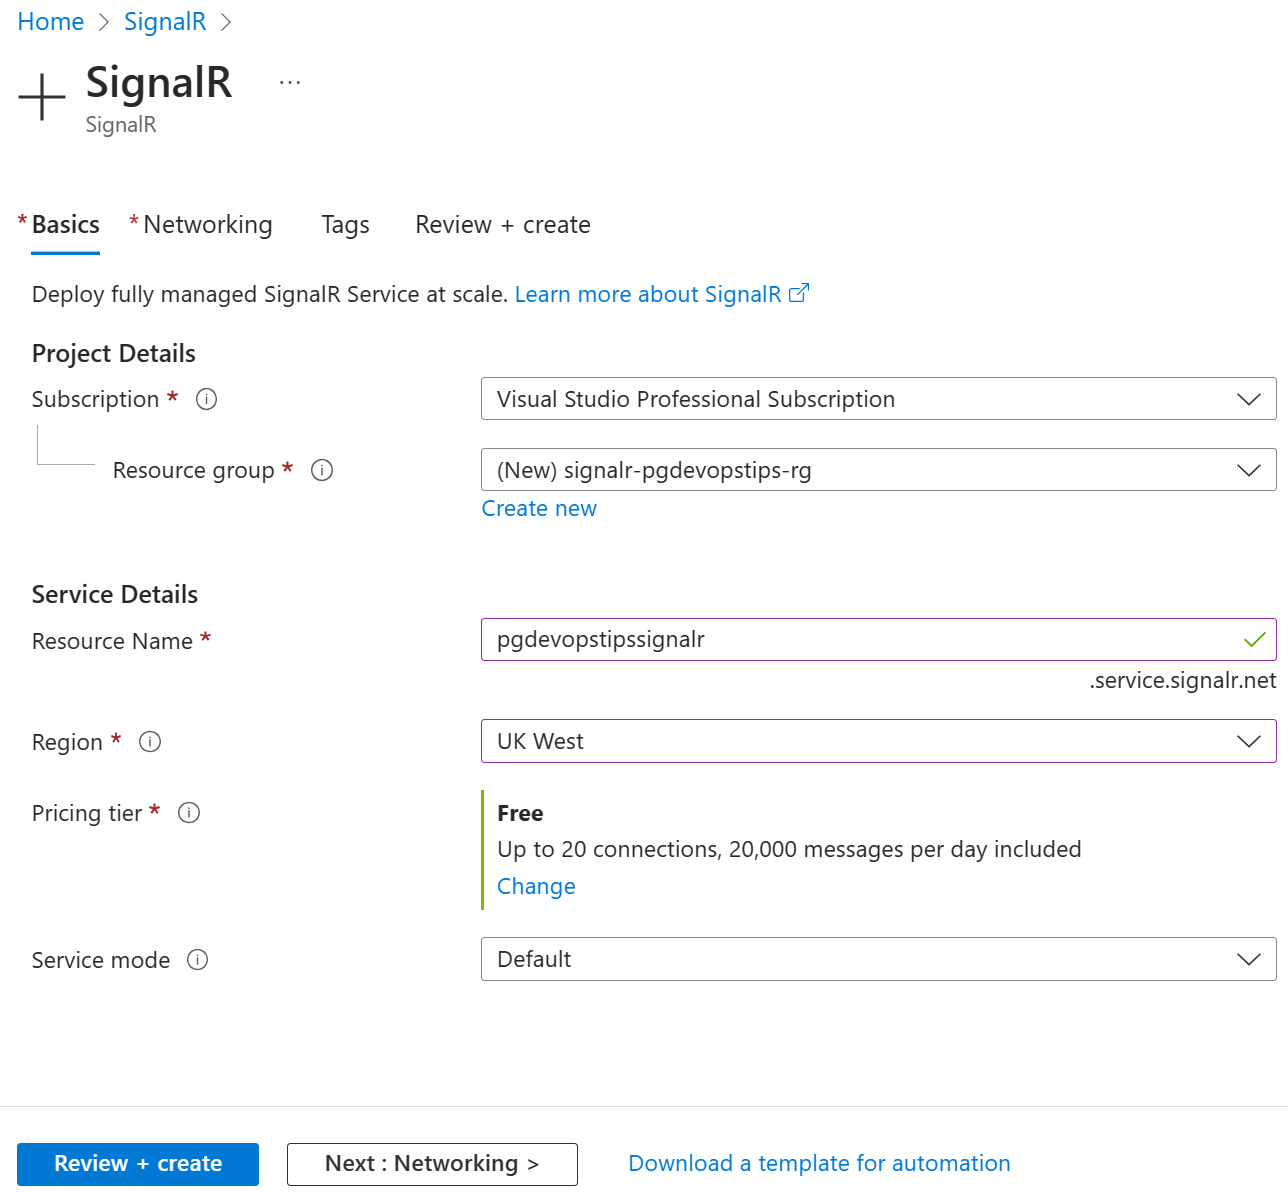
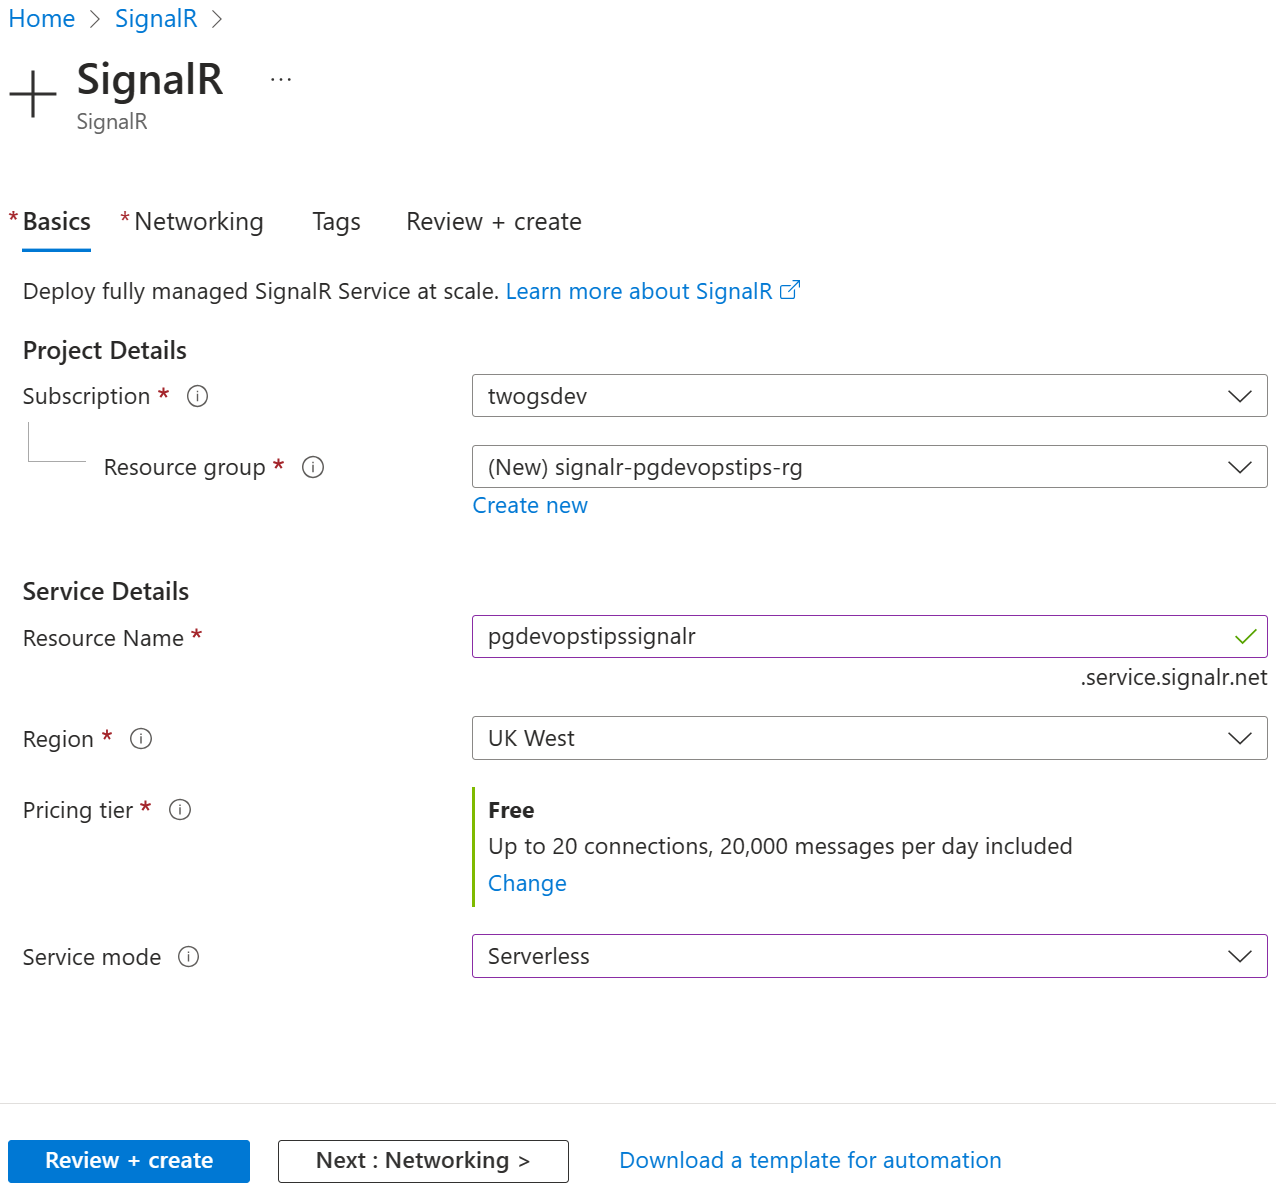
Update grammar and image

diff --git a/Blog/Articles/Sending IoT data real-time from the Azure Plug and Play Mobile App to a Blazor WebAssembly App with Azure IoT Hub Azure Functions and SignalR Service.md b/Blog/Articles/Sending IoT data real-time from the Azure Plug and Play Mobile App to a Blazor WebAssembly App with Azure IoT Hub Azure Functions and SignalR Service.md
@@ -1,6 +1,6 @@
 ---
-title: Sending IoT data real-time from the Azure Plug and Play Mobile App to a Blazor WebAssembly App with Azure IoT Hub Azure Functions and SignalR Service
-description: Sending IoT data real-time from the Azure Plug and Play Mobile App to a Blazor WebAssembly App with Azure IoT Hub Azure Functions and SignalR Service
+title: Sending IoT data real-time from the Azure Plug and Play Mobile App to a Blazor WebAssembly App with Azure IoT Hub Azure Functions and a SignalR Service
+description: Sending IoT data real-time from the Azure Plug and Play Mobile App to a Blazor WebAssembly App with Azure IoT Hub Azure Functions and a SignalR Service
 image: https://dummyimage.com/800x600/000/fff&text=placeholder
 thumbnail: https://dummyimage.com/200x200/000/fff&text=placeholder
 type: article
@@ -12,10 +12,11 @@ categories:
   - Azure Functions
   - Azurite
   - Azure SignalR Service
-  - Blazor WebAssembly
+  - Blazor WebAssembly App
+  - Visual Studio
 ---
 
-# Sending IoT data real-time from the Azure Plug and Play Mobile App to a Blazor WebAssembly App with Azure IoT Hub, Azure Functions and SignalR Service
+# Sending IoT data real-time from the Azure Plug and Play Mobile App to a Blazor WebAssembly App with Azure IoT Hub, Azure Functions and a SignalR Service
 
 In this article, you will learn how to build a solution to send IoT data real-time from the Azure Plug and Play Mobile App to a Blazor WebAssembly App with Azure IoT Hub, Azure Functions and a SignalR Service.
 
@@ -61,9 +62,9 @@ The following prerequisites will be required to complete this tutorial:
     ![Visual Studio Additional Information New Azure Functions Project](https://raw.githubusercontent.com/petergregg/Content/main/Blog/Images/VisualStudio/VisualStudioConfigureAzureFunctionsProjectAdditionalInformation.png)
 
 
-# Create Azure IoT Hub and configure in the Azure Functions Project
+# Create an Azure IoT Hub and Connect it to the Azure Functions Project
 
-## Create Azure IoT Hub
+## Create an Azure IoT Hub
 
 1. Navigate to the [Azure Portal](https://portal.azure.com/), and then search for **iot hub**.
 
@@ -90,7 +91,7 @@ The following prerequisites will be required to complete this tutorial:
 
     ![Azure IoT Hub Built-in endpoints](https://raw.githubusercontent.com/petergregg/Content/main/Blog/Images/Azure/AzureIoTHub/AzureIoTHubBuiltInEndpoints.png)
 
-## Update IoT Hub Endpoint in the Azure Functions Project
+## Update the IoT Hub Endpoint in the Azure Functions Project
 
 1. In Visual Studio, open the `local.settings` json file. Replace `{YourIoTHubEndpoint}` with the endpoint you copied earlier in the [Azure Portal](https://portal.azure.com/).
 
@@ -106,13 +107,13 @@ The following prerequisites will be required to complete this tutorial:
 
    ![Visual Studio Nuget Package Manager Update Microsoft Azure WebJobs Extensions EventHubs Nuget package](https://raw.githubusercontent.com/petergregg/Content/main/Blog/Images/VisualStudio/VisualStudioNugetPackageManagerUpdateMicrosoftAzureWebJobsExtensionsEventHubs.png)
 
-3. In the **Preview Changes** window select **OK**.
+3. In the **Preview Changes** window, select **OK**.
 
 4. Run the Azure Function.
 
    ![Visual Studio Run Azure Functions IoT SignalR Project After IoT Hub Setup](https://raw.githubusercontent.com/petergregg/Content/main/Blog/Images/VisualStudio/VisualStudioRunAzureFunctionsIoTSignalRProjectAfterIoTHubSetup.png)
 
-# Create Azure SignalR service and configure in the Azure Functions Project
+# Create an Azure SignalR Service and Connect it to the Azure Functions Project
 
 1. Navigate to the [Azure Portal](https://portal.azure.com/), and then search for **signalr**.
 
@@ -131,7 +132,6 @@ The following prerequisites will be required to complete this tutorial:
     | Resource name | Chosen name for the SignalR service name |
     | Region | Location nearest to you that has the SignalR service |
     | Pricing tier | Free |
-    | Unit count | 1 |
     | Service mode | Serverless |
 
     ![Azure SignalR Service Basics Setup](https://raw.githubusercontent.com/petergregg/Content/main/Blog/Images/Azure/AzureSignalRService/AzureSignalRServiceBasicsSetup.png)
@@ -182,7 +182,7 @@ The following prerequisites will be required to complete this tutorial:
 
     ![Visual Studio Add Azure Function To Azure Functions Project](https://raw.githubusercontent.com/petergregg/Content/main/Blog/Images/VisualStudio/VisualStudioAddAzureFunctionToAzureFunctionsProject.png)
 
-3. Select **SignalR** in the Azure Functions list, and then enter the following values into the New Azure Function window.
+3. Select **SignalR** in the Azure Functions list. Enter the following values into the New Azure Function window, and then select **Add**.
 
     | Parameter | Value |
     | --- | --- | 
@@ -196,7 +196,7 @@ The following prerequisites will be required to complete this tutorial:
 
 1. In Visual Studio, right click on the **IOTHubIngestionSignalR** solution. Select **Add**, and then select **New Project**.
 
-2. Search for **blazor**. Select **Blazor WebAssembly App**, and then select **Next**.
+2. Search for **blazor**. Select **Blazor WebAssembly App**, and then **Next**.
 
     ![Visual Studio Add A New Blazor WebAssembly App Project](https://raw.githubusercontent.com/petergregg/Content/main/Blog/Images/VisualStudio/VisualStudioCreateANewBlazorWebAssemblyAppProject.png)
 
@@ -222,7 +222,7 @@ The following prerequisites will be required to complete this tutorial:
 
     ![Visual Studio Configure Blazor WebAssembly App Project Additional Information](https://raw.githubusercontent.com/petergregg/Content/main/Blog/Images/VisualStudio/VisualStudioConfigureBlazorWebAssemblyAppProjectAdditionalInformation.png)
 
-## Install Nuget packages
+## Install Nuget Packages
 
 1. Right click on the **IOTDevices** project, and then select **Manage Nuget Packages**.
 
@@ -230,15 +230,15 @@ The following prerequisites will be required to complete this tutorial:
 
     ![Visual Studio Nuget Package Manager Install Microsoft AspNetCore SignalR Client](https://raw.githubusercontent.com/petergregg/Content/main/Blog/Images/VisualStudio/VisualStudioNugetPackageManagerInstallMicrosoftAspNetCoreSignalRClient.png)
 
-3. In the **Preview Changes** window select **OK**.
+3. In the **Preview Changes** window, select **OK**.
 
 4. Still in the NuGet Package Manager, select **Browse**. Search for **Microsoft.Extensions.Logging**, and then select **Install**.
 
     ![Visual Studio Nuget Package Manager Install Microsoft Extensions Logging](https://raw.githubusercontent.com/petergregg/Content/main/Blog/Images/VisualStudio/VisualStudioNugetPackageManagerInstallMicrosoftExtensionsLogging.png)
 
-5. In the **Preview Changes** window select **OK**.
+5. In the **Preview Changes** window, select **OK**.
 
-## Add functionality to the Blazor WebAssembly App to connect to Azure SignalR Service
+## Add Functionality to the Blazor WebAssembly App to Connect it to the Azure SignalR Service
 
 1. In Visual Studio, open the`program` c# file in the **IOTDevices** project, and add the following code above `await builder.Build().RunAsync();`.
 
@@ -252,7 +252,7 @@ The following prerequisites will be required to complete this tutorial:
 
 4. Name the Razor Component **FetchData** in the **Name** box, and select **Add**.
 
-5. Add the following code into `FetchData`. Replace the port in the following url with the port you copied earlier `http://localhost:{YourPort}/api`.
+5. Add the following code into `FetchData`. Replace the `{YourPort}` in the url in following code with the `port` you copied earlier.
 
     ```
     @page "/fetchdata"
@@ -304,7 +304,7 @@ The following prerequisites will be required to complete this tutorial:
     }
     ```
 
-6. Open the `NavMenu` Razor Component in the **Shared** folder and add the following code before the closing `</nav>` tag.
+6. Open the `NavMenu` **Razor Component** in the **Shared** folder and add the following code before the closing `</nav>` tag.
 
     ```
     <div class="nav-item px-3">
@@ -331,7 +331,7 @@ The following prerequisites will be required to complete this tutorial:
     }
     ```
 
-3. Open the `local.settings` json file in the **IOTHubIngestionSignalR** Azure function project, and add the following code.
+3. Open the `local.settings` json file in the **IOTHubIngestionSignalR** Azure function project, and add the following code to the end of the file.
 
     ```
     "Host": {
@@ -345,9 +345,9 @@ The following prerequisites will be required to complete this tutorial:
 
 1. [Install the Azure Plug and Play mobile app](https://learn.microsoft.com/en-us/azure/iot/iot-phone-app-how-to#install-the-app) onto your device.
 
-# Setup your Device in Azure IoT Hub
+# Setup Your Device in Azure IoT Hub
 
-1. Navigate to the IoT Hub in the [Azure Portal](https://portal.azure.com/). Search for **devices**, and then select **+ Add Device**.
+1. Navigate to the **IoT Hub** in the [Azure Portal](https://portal.azure.com/). Search for **devices**, and then select **+ Add Device**.
 
     ![Azure IoT Hub Devices Add Device Navigation](https://raw.githubusercontent.com/petergregg/Content/main/Blog/Images/Azure/AzureIoTHub/AzureIoTHubDevicesAddDeviceNavigation.png)
 
@@ -369,11 +369,11 @@ The following prerequisites will be required to complete this tutorial:
 
     ![Azure IoT Hub Devices Device Primary Connection String](https://raw.githubusercontent.com/petergregg/Content/main/Blog/Images/Azure/AzureIoTHub/AzureIoTHubDevicesDevicePrimaryConnectionString.png)
 
-4. Open the Azure Plug and Play mobile on your device. Select **Scan QR code** .
+4. Open the **Azure Plug and Play mobile app** on your device. Select **Scan QR code** .
    
     ![Azure IoT PnP Scan QR Code](https://raw.githubusercontent.com/petergregg/Content/main/Blog/Images/Azure/AzureIoTPnP/AzureIoTPnPScanQRCode.jpeg)
 
-5. Select the option to allow iot pnp to use the devices camera.
+5. Select the option to **Allow IoT PnP to take pictures and record video** with your devices camera.
 
    ![Azure IoT PnP Scan QR Code](https://raw.githubusercontent.com/petergregg/Content/main/Blog/Images/Azure/AzureIoTPnP/AzureIoTPnPAllowPictureTaking.jpeg)
    
@@ -381,17 +381,17 @@ The following prerequisites will be required to complete this tutorial:
 
     ![Azure IoT PnP Scan QR Code](https://raw.githubusercontent.com/petergregg/Content/main/Blog/Images/Azure/AzureIoTPnP/AzureIoTPnPConnectManuallyNavigation.jpeg)
    
-7. Select **IoT Hub device connection string**. Enter the connection string you copied earlier, and then select **Connect**.
+7. Select **IoT Hub device connection string**. Enter the **connection string** you copied earlier, and then select **Connect**.
 
     ![Azure IoT PnP Scan QR Code](https://raw.githubusercontent.com/petergregg/Content/main/Blog/Images/Azure/AzureIoTPnP/AzureIoTPnPManuallyConnect.jpeg)
 
 # Send Data from the Azure IoT Plug and Play Mobile Application to the Blazor WebAssembly App
 
-1. In Visual Studio, right click on the solution, and then select **Configure Startup Projects...**.
+1. In Visual Studio, right click on the **Solution**, and then select **Configure Startup Projects...**.
 
     ![Visual Studio Solution Configure Startup Projects](https://raw.githubusercontent.com/petergregg/Content/main/Blog/Images/VisualStudio/VisualStudioSolutionConfigureStartupProjects.png)
 
-2. Select **Multiple startup projects**, and then select **OK**. 
+2. Select **Multiple startup projects**, and then **OK**. 
 
     ![Visual Studio Solution Configure Startup Projects](https://raw.githubusercontent.com/petergregg/Content/main/Blog/Images/VisualStudio/VisualStudioSolutionConfigureMultipleStartupProjects.png)
 
@@ -406,9 +406,9 @@ The following prerequisites will be required to complete this tutorial:
 5. Select **Yes**.
     ![Visual Studio Trust ASP.NET Core SSL Certificate](https://raw.githubusercontent.com/petergregg/Content/main/Blog/Images/VisualStudio/VisualStudioTrustASPNETCoreSSLCertificateSecurityWarning.png)
 
-6. Open the Azure Plug and Play mobile on your device.
+6. Open the **Azure Plug and Play Mobile App** on your device.
 
-7. Navigate to the **FetchData** page.
+7. Navigate to the **FetchData** page in the **Blazor WebAssembly App**.
 
     ![IoT Hub Ingestion SignalR Blazor WebAssembly FetchData Page](https://raw.githubusercontent.com/petergregg/Content/main/Blog/Images/IoTHubIngestionSignalR/BlazorWebAssemblyFetchDataPage.png)
 
